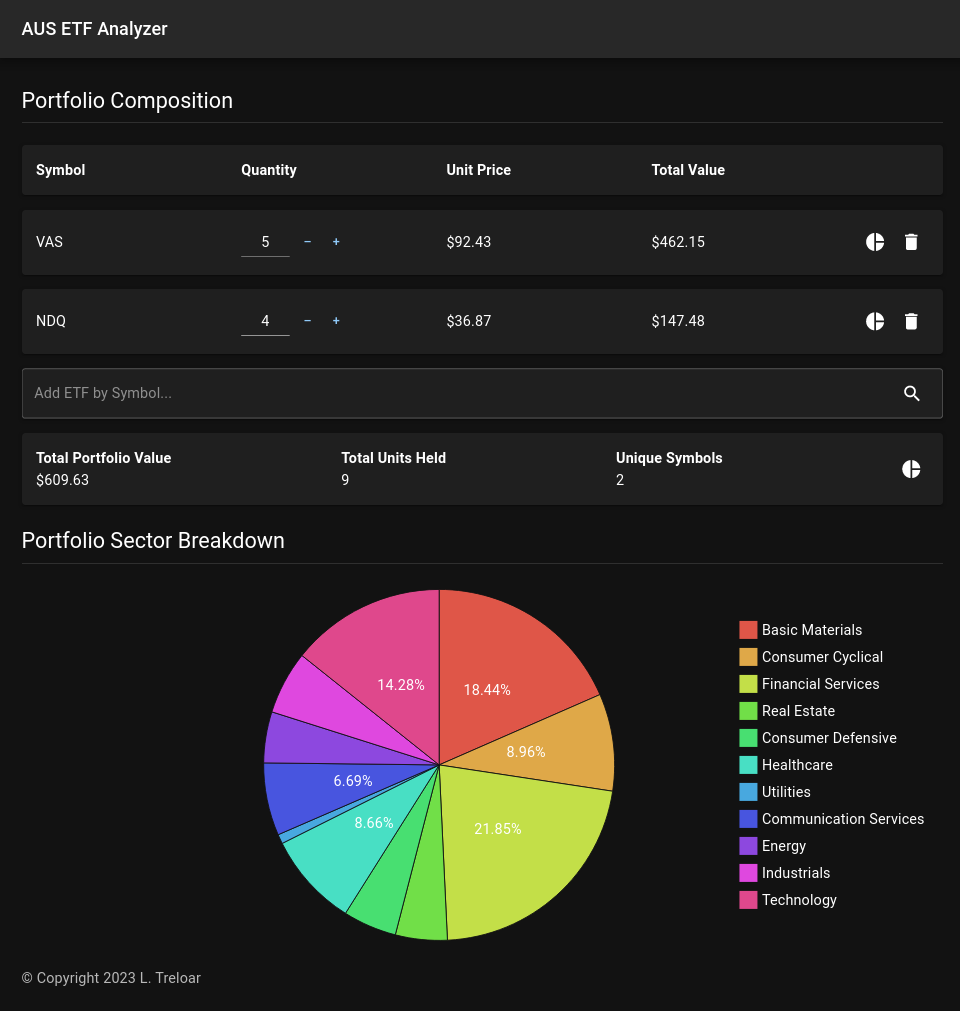
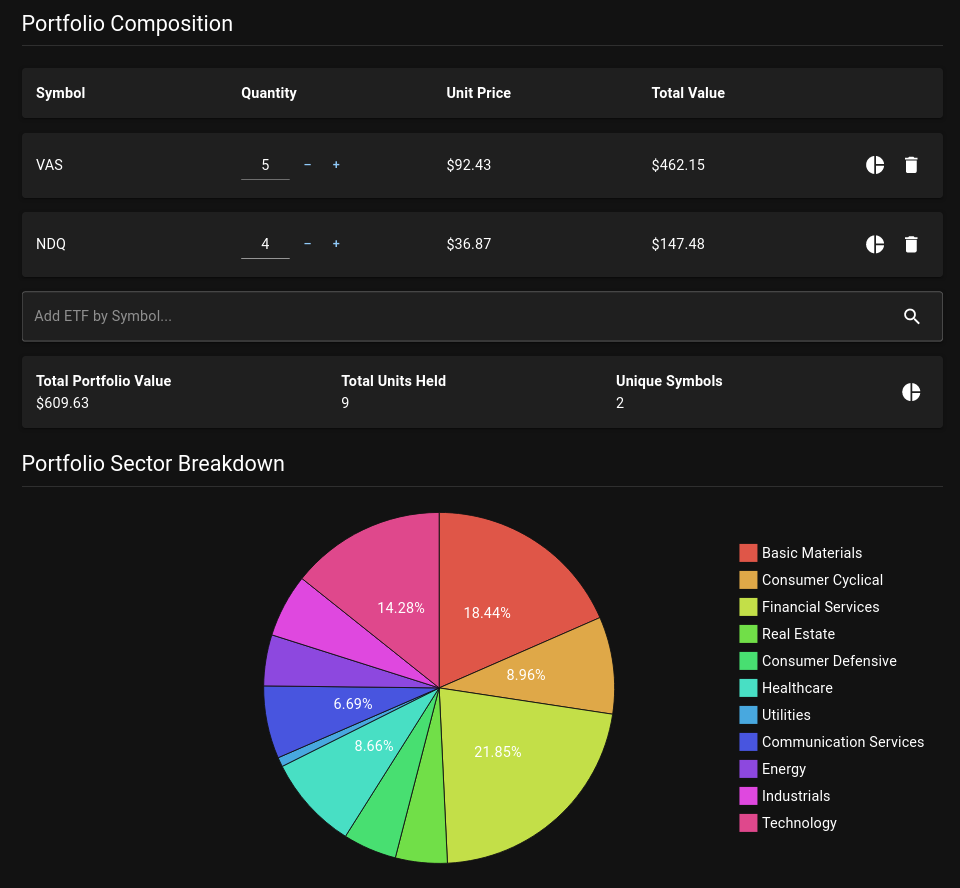
Trim screenshot and add setup guide

diff --git a/README.md b/README.md
@@ -1,4 +1,31 @@
-# AUS ETF Analyzer
+# AUS ETF Analyzer | [Demo](https://aus-etf-analyzer.ltrel.xyz)
 AUS ETF Analyzer is a web application for analyzing the sector diversification in portfolios composed of ASX-listed ETFs.
 
+## Screenshot
 ![Screenshot of the application](screenshot.png)
+
+## Server Setup
+### Method 1: Run a prebuilt Docker image
+```
+docker run -p 8000:80 ghcr.io/ltrel/aus-etf-analyzer
+```
+### Method 2: Build and run a Docker image from source
+```
+cd server
+docker build . -t ltrel/aus-etf-analyzer
+docker run -p 8000:80 ltrel/aus-etf-analyzer
+```
+### Method 3: Setup project manually
+```
+cd server
+poetry install --no-root
+poetry run uvicorn app.main:app
+```
+
+## Client Setup
+Note that running the client in development mode requires an instance of the server available at the URL `http://localhost:8000`
+```
+cd client
+npm install
+npm run dev
+```
